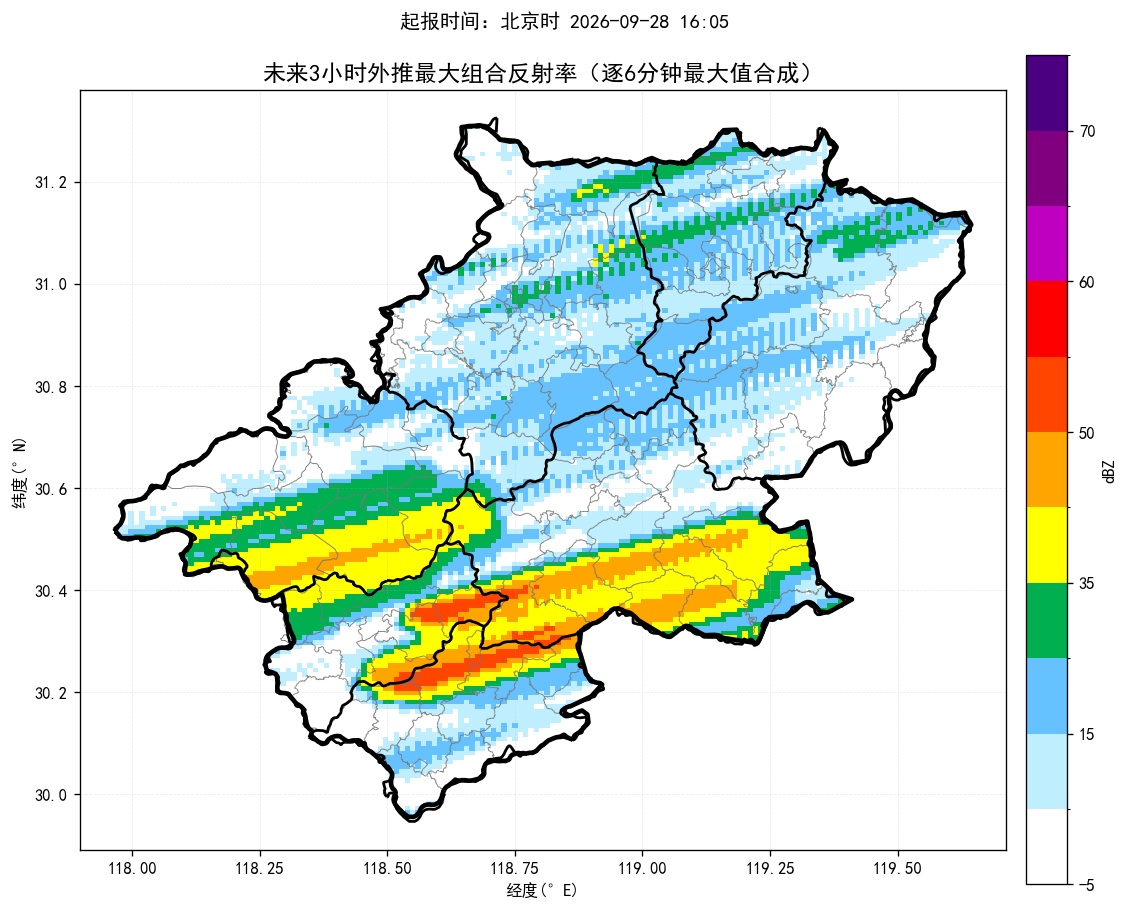
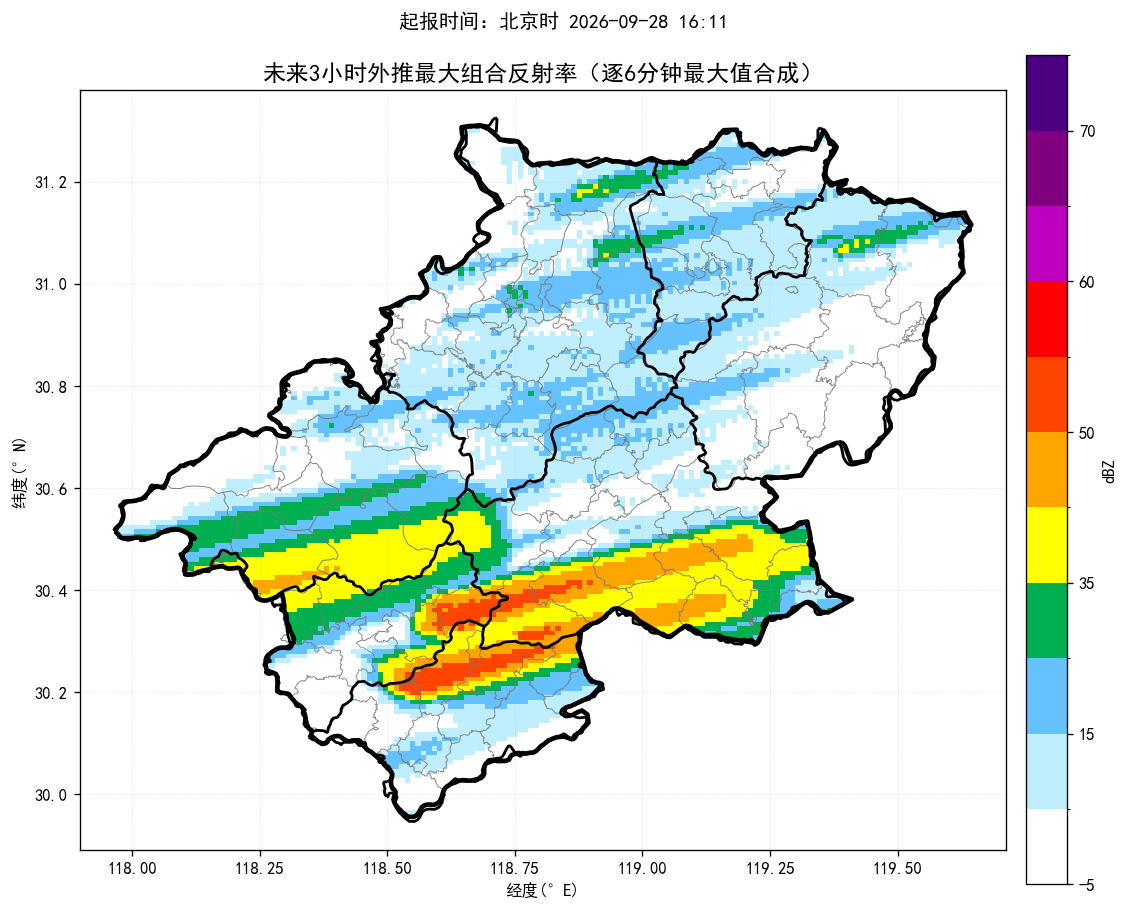
update nowcast products

Changed region(s): [[0.0931, 0.1538, 0.8378, 0.8615], [0.3413, 0.0, 0.6516, 0.0308]]

diff --git a/index.html b/index.html
@@ -14,14 +14,14 @@ img.product{display:block;width:100%;height:auto;margin:10px auto 26px;border:1p
 .footer{font-size:13px;color:#777;text-align:center;margin-top:30px}
 @media(max-width:700px){.sheet{margin:0;padding:18px 15px}.alert-title{font-size:22px}.county-line{font-size:17px}.prob{font-size:18px}}
 </style></head><body><main class="sheet">
-<div class="time">起报时间：北京时 2026-09-28 16:05</div>
-<div class="alert-title">未来一小时降水量超过 20 毫米的乡镇：</div><div class="county-line">绩溪县：板桥头乡、长安镇、金沙镇；</div><div class="county-line">旌德县：版书镇、俞村镇、旌阳镇；</div><div class="county-line">宁国市：胡乐镇</div>
+<div class="time">起报时间：北京时 2026-09-28 16:11</div>
+<div class="alert-title">未来一小时降水量超过 20 毫米的乡镇：</div><div class="county-line">旌德县：俞村镇、版书镇；</div><div class="county-line">绩溪县：板桥头乡、金沙镇；</div><div class="county-line">宁国市：胡乐镇</div>
 <div class="alert-title">未来三小时降水量超过 50 毫米的乡镇：</div><div class="county-line">无</div>
 <div class="alert-title">未来三小时雷暴大风（组合反射率 > 55 dBZ）的乡镇：</div><div class="county-line">无</div>
-<div class="prob">最大降水量概率预估：宣城市范围内未来三小时累计降水达到50毫米概率约25%，达到80毫米概率约0%，达到100毫米概率约0%。</div>
-<div class="section-title">未来降水预报图：</div><img class="product auto-refresh-product" data-src="短临降水预报.png" src="短临降水预报.png?v=20260928161139" alt="未来降水预报图">
-<div class="section-title">未来三小时组合反射率图：</div><img class="product auto-refresh-product" data-src="未来3小时组合反射率.png" src="未来3小时组合反射率.png?v=20260928161139" alt="未来三小时组合反射率图">
-<div class="section-title">未来三小时雷暴大风图：</div><img class="product auto-refresh-product" data-src="未来3小时雷暴大风.png" src="未来3小时雷暴大风.png?v=20260928161139" alt="未来三小时雷暴大风图">
+<div class="prob">最大降水量概率预估：宣城市范围内未来三小时累计降水达到50毫米概率约31%，达到80毫米概率约0%，达到100毫米概率约0%。</div>
+<div class="section-title">未来降水预报图：</div><img class="product auto-refresh-product" data-src="短临降水预报.png" src="短临降水预报.png?v=20260928161720" alt="未来降水预报图">
+<div class="section-title">未来三小时组合反射率图：</div><img class="product auto-refresh-product" data-src="未来3小时组合反射率.png" src="未来3小时组合反射率.png?v=20260928161720" alt="未来三小时组合反射率图">
+<div class="section-title">未来三小时雷暴大风图：</div><img class="product auto-refresh-product" data-src="未来3小时雷暴大风.png" src="未来3小时雷暴大风.png?v=20260928161720" alt="未来三小时雷暴大风图">
 <div class="footer">三张产品图每 60 秒自动刷新一次；每次请求自动附加新的URL参数以绕过缓存。</div>
 <script>
 (function() {
